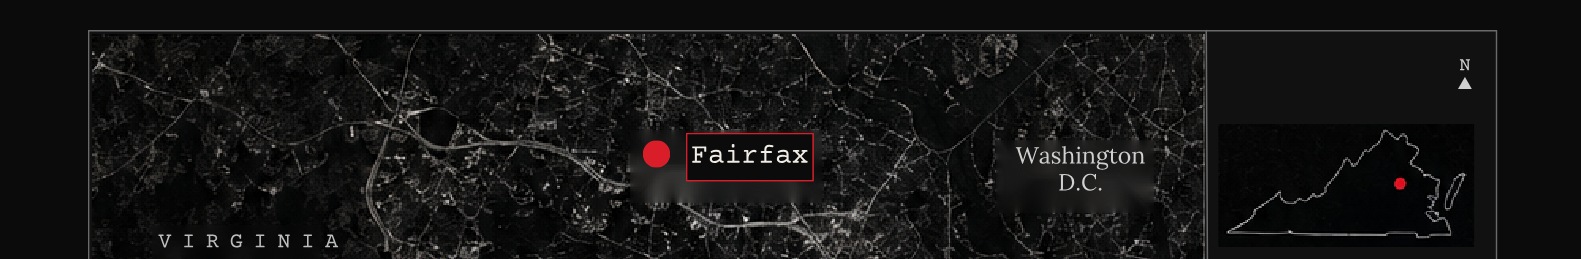
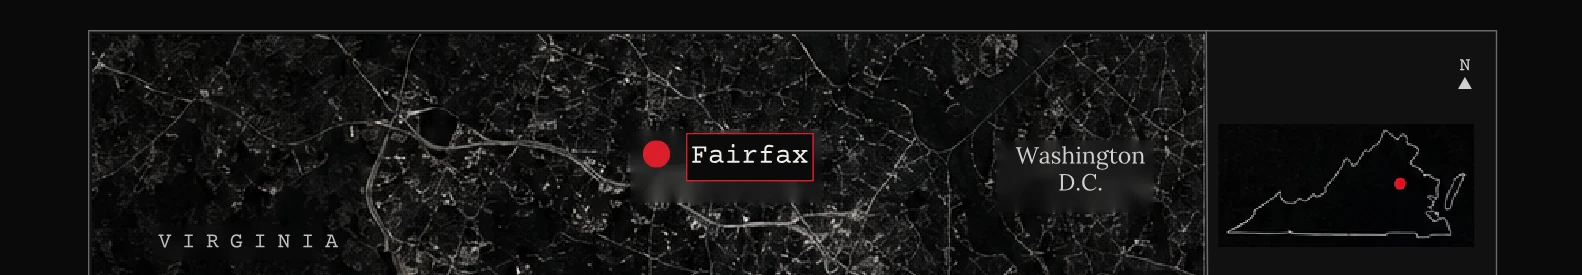
Fix Banfield figure crops for mobile-readable maps.
Tighten fig-vitimas to the 2×2 photo grid, split mobile map into main/inset assets with padded aspect, publish document v3, and extend figure QA coverage.

Changed region(s): [[0.062, 0.0927, 0.9608, 1.0], [0.8988, 0.2162, 0.9298, 0.3398]]

diff --git a/scripts/test-banfield-html-figures.ts b/scripts/test-banfield-html-figures.ts
@@ -15,26 +15,48 @@ const assetsDir = path.join(
 /** fig-mapa defeituoso anterior: 1440×287, crop da faixa d03 (resumo + «02. MAPA»). */
 const BAD_MAPA_DIMENSIONS = { width: 1440, height: 287 };
 
+const MOBILE_MAP_MIN_HEIGHT_AT_352 = 180;
+const MOBILE_VIEWPORT_WIDTH = 352;
+
 async function testFigureAssets() {
-  for (const id of ["fig-vitimas", "fig-mapa"]) {
+  for (const id of ["fig-vitimas", "fig-mapa-main", "fig-mapa-inset", "fig-mapa"]) {
     const p = path.join(assetsDir, `${id}.webp`);
     assert.ok(fs.existsSync(p), `${id}.webp deve existir`);
   }
 
   const vitimasPath = path.join(assetsDir, "fig-vitimas.webp");
+  const mapaMainPath = path.join(assetsDir, "fig-mapa-main.webp");
+  const mapaInsetPath = path.join(assetsDir, "fig-mapa-inset.webp");
   const mapaPath = path.join(assetsDir, "fig-mapa.webp");
 
   const vitimas = await sharp(vitimasPath).metadata();
+  const mapaMain = await sharp(mapaMainPath).metadata();
+  const mapaInset = await sharp(mapaInsetPath).metadata();
   const mapa = await sharp(mapaPath).metadata();
   const vw = vitimas.width ?? 0;
   const vh = vitimas.height ?? 0;
+  const mmw = mapaMain.width ?? 0;
+  const mmh = mapaMain.height ?? 0;
+  const miw = mapaInset.width ?? 0;
+  const mih = mapaInset.height ?? 0;
   const mw = mapa.width ?? 0;
   const mh = mapa.height ?? 0;
 
-  assert.ok(vw >= 450 && vw <= 540, `fig-vitimas width ${vw}`);
-  assert.ok(vh >= 340 && vh <= 400, `fig-vitimas height ${vh}`);
+  assert.ok(vw >= 400 && vw <= 450, `fig-vitimas width ${vw}`);
+  assert.ok(vh >= 310 && vh <= 340, `fig-vitimas height ${vh}`);
   const vAspect = vw / vh;
-  assert.ok(vAspect >= 1.15 && vAspect <= 1.45, `fig-vitimas aspect ${vAspect}`);
+  assert.ok(vAspect >= 1.2 && vAspect <= 1.45, `fig-vitimas aspect ${vAspect}`);
+
+  const mainAspect = mmw / mmh;
+  const mainRenderedH = MOBILE_VIEWPORT_WIDTH / mainAspect;
+  assert.ok(
+    mainRenderedH >= MOBILE_MAP_MIN_HEIGHT_AT_352 - 0.5,
+    `fig-mapa-main rendered height @352px = ${mainRenderedH.toFixed(1)} (need ≥${MOBILE_MAP_MIN_HEIGHT_AT_352})`,
+  );
+  assert.ok(mainAspect <= 352 / MOBILE_MAP_MIN_HEIGHT_AT_352 + 0.02, `fig-mapa-main aspect ${mainAspect}`);
+
+  assert.ok(miw >= 650, `fig-mapa-inset width ${miw}`);
+  assert.ok(mih >= 350, `fig-mapa-inset height ${mih}`);
 
   assert.ok(mw >= 1500, `fig-mapa width ${mw}`);
   assert.ok(mh >= 250 && mh <= 320, `fig-mapa height ${mh}`);

diff --git a/scripts/extract-banfield-html-figures.ts b/scripts/extract-banfield-html-figures.ts
@@ -52,7 +52,27 @@ async function main() {
   for (const crop of BANFIELD_HTML_FIGURE_CROPS) {
     const rect = rectFromCrop(pageWidth, pageHeight, crop);
     const outPath = path.join(outDir, `${crop.assetId}.webp`);
-    const webp = await sharp(pagePng).extract(rect).webp({ quality: 90, effort: 4 }).toBuffer();
+    let pipeline = sharp(pagePng).extract(rect);
+    if (crop.padToMaxAspect) {
+      const extracted = await pipeline.png().toBuffer();
+      const em = await sharp(extracted).metadata();
+      const ew = em.width ?? 1;
+      const eh = em.height ?? 1;
+      const aspect = ew / eh;
+      if (aspect > crop.padToMaxAspect) {
+        const targetH = Math.ceil(ew / crop.padToMaxAspect);
+        const padTop = Math.floor((targetH - eh) / 2);
+        const padBottom = targetH - eh - padTop;
+        pipeline = sharp(extracted).extend({
+          top: padTop,
+          bottom: padBottom,
+          background: { r: 0, g: 0, b: 0 },
+        });
+      } else {
+        pipeline = sharp(extracted);
+      }
+    }
+    const webp = await pipeline.webp({ quality: 90, effort: 4 }).toBuffer();
     fs.writeFileSync(outPath, webp);
     const outMeta = await sharp(webp).metadata();
     const hash = crypto.createHash("sha256").update(webp).digest("hex");

diff --git a/src/components/dossier/DocumentFigureBlock.tsx b/src/components/dossier/DocumentFigureBlock.tsx
@@ -13,6 +13,7 @@ export function DocumentFigureBlock({
   caption,
   credit,
   portrait,
+  showWhen,
 }: {
   slug: string;
   assetId: string;
@@ -20,7 +21,14 @@ export function DocumentFigureBlock({
   caption?: string;
   credit?: string;
   portrait?: boolean;
+  showWhen?: "mobile-only" | "desktop-only";
 }) {
+  const visibility =
+    showWhen === "mobile-only"
+      ? "md:hidden"
+      : showWhen === "desktop-only"
+        ? "hidden md:block"
+        : "";
   const [open, setOpen] = useState(false);
   const close = useCallback(() => setOpen(false), []);
 
@@ -39,7 +47,7 @@ export function DocumentFigureBlock({
 
   return (
     <>
-      <figure className="mx-auto w-full max-w-[75rem]">
+      <figure className={`mx-auto w-full max-w-[75rem] ${visibility}`}>
         <button
           type="button"
           className="block w-full cursor-zoom-in border-0 bg-transparent p-0 text-left"

diff --git a/src/lib/dossier/processing-config.ts b/src/lib/dossier/processing-config.ts
@@ -348,15 +348,32 @@ export type HtmlFigureCrop = {
   xEnd: number;
   yStart: number;
   yEnd: number;
+  /** Pad with black to at most this width/height ratio (mobile legibility). */
+  padToMaxAspect?: number;
 };
 
 export const BANFIELD_HTML_FIGURE_CROPS: HtmlFigureCrop[] = [
   {
     assetId: "fig-vitimas",
-    xStart: 0.032,
-    xEnd: 0.327,
-    yStart: 0.208,
-    yEnd: 0.336,
+    xStart: 0.03,
+    xEnd: 0.285,
+    yStart: 0.218,
+    yEnd: 0.33,
+  },
+  {
+    assetId: "fig-mapa-main",
+    xStart: 0.02,
+    xEnd: 0.58,
+    yStart: 0.405,
+    yEnd: 0.5,
+    padToMaxAspect: 352 / 180,
+  },
+  {
+    assetId: "fig-mapa-inset",
+    xStart: 0.55,
+    xEnd: 0.985,
+    yStart: 0.36,
+    yEnd: 0.498,
   },
   {
     assetId: "fig-mapa",

diff --git a/scripts/dossier-bootstrap-banfield-document.ts b/scripts/dossier-bootstrap-banfield-document.ts
@@ -21,6 +21,16 @@ const ASSETS: { id: string; localRel: string; alt: string }[] = [
     alt: "Fotos das vítimas Christine Banfield e Joseph Ryan.",
   },
   {
+    id: "fig-mapa-main",
+    localRel: "private/dossiers/documents/familia-banfield/assets/fig-mapa-main.webp",
+    alt: "Mapa satélite de Fairfax e Washington D.C.",
+  },
+  {
+    id: "fig-mapa-inset",
+    localRel: "private/dossiers/documents/familia-banfield/assets/fig-mapa-inset.webp",
+    alt: "Inset de Virgínia e coordenadas de Fairfax.",
+  },
+  {
     id: "fig-mapa",
     localRel: "private/dossiers/documents/familia-banfield/assets/fig-mapa.webp",
     alt: "Mapa de Fairfax e região metropolitana de Washington D.C.",

diff --git a/src/components/dossier/DocumentBlockView.tsx b/src/components/dossier/DocumentBlockView.tsx
@@ -134,6 +134,7 @@ export function DocumentBlockView({ slug, block }: { slug: string; block: Docume
           caption={"caption" in block ? block.caption : undefined}
           credit={block.credit}
           portrait={portrait}
+          showWhen={block.type === "figure" ? block.showWhen : undefined}
         />
       );
     }

diff --git a/src/lib/dossier/document-types.ts b/src/lib/dossier/document-types.ts
@@ -52,6 +52,8 @@ export type FigureBlock = DocumentBlockBase & {
   alt: string;
   caption: string;
   credit?: string;
+  /** Tailwind md breakpoint: show only below md or md and up. */
+  showWhen?: "mobile-only" | "desktop-only";
 };
 
 export type QuoteBlock = DocumentBlockBase & {
